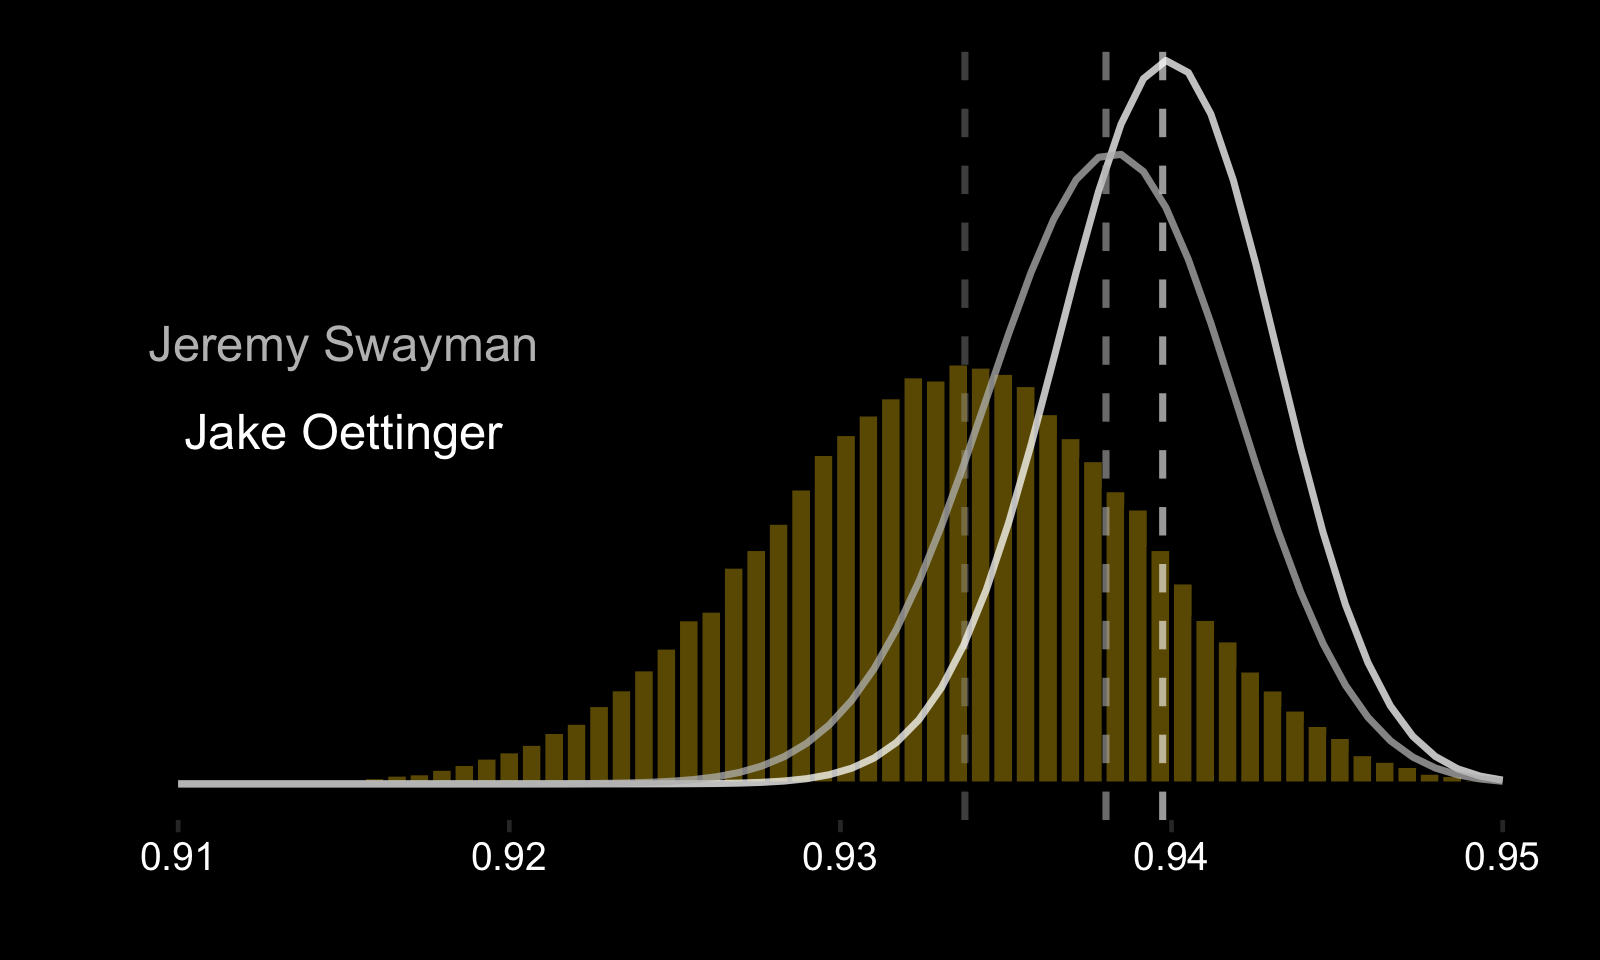
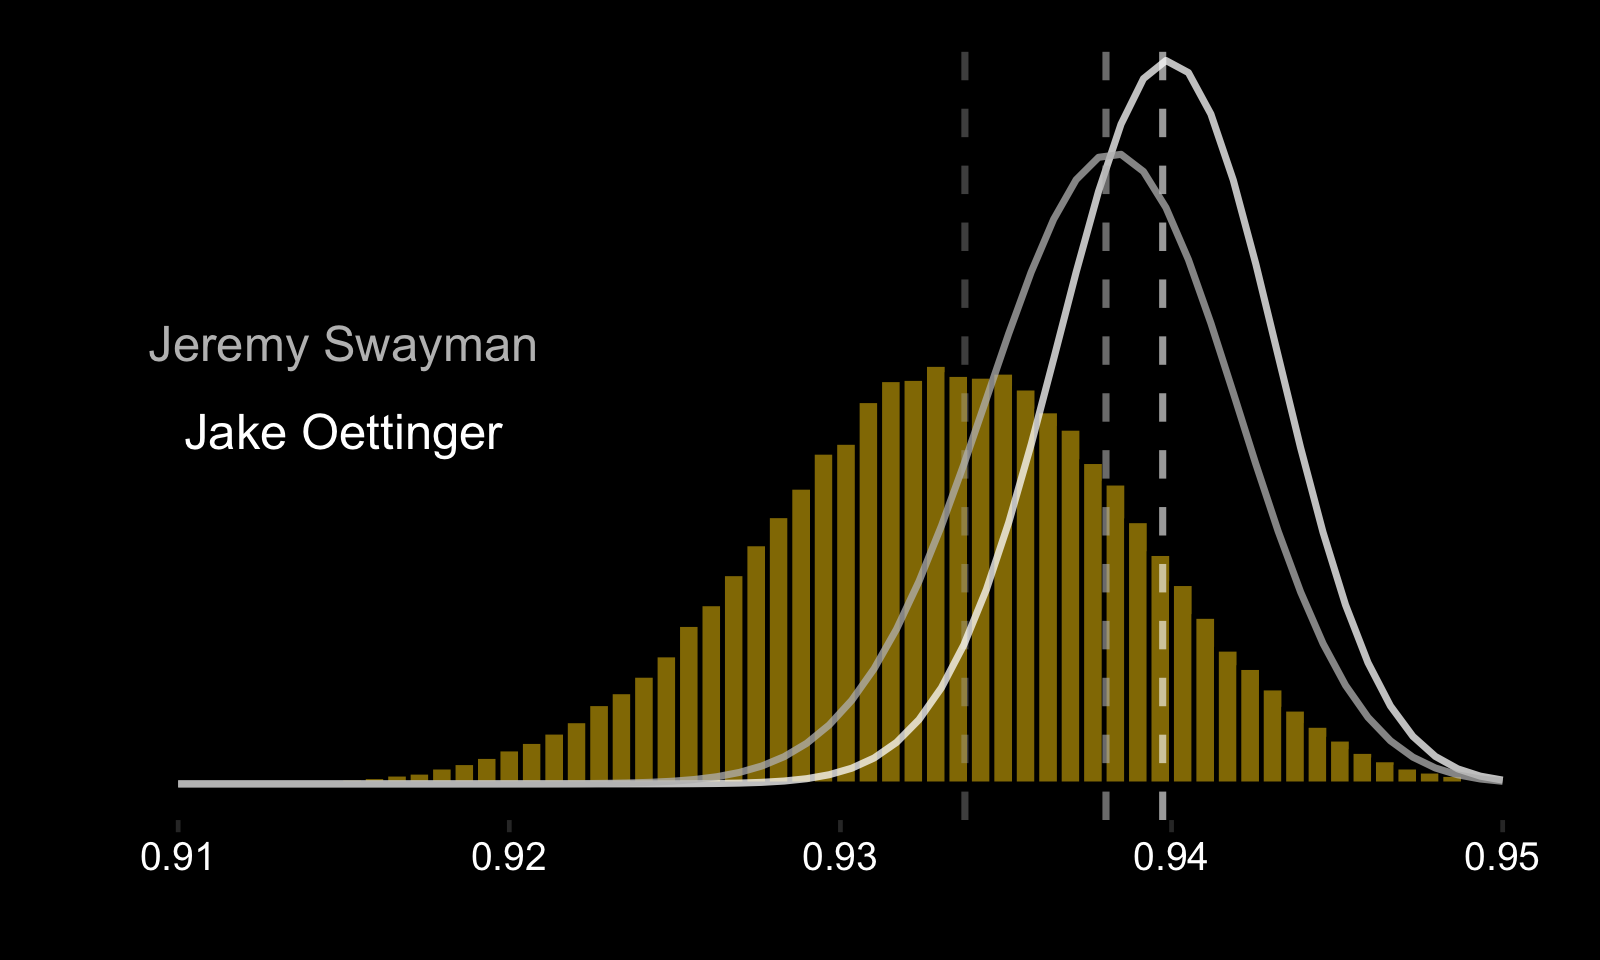
add alpha to plot

Changed region(s): [[0.25, 0.375, 0.9062, 0.8125]]

diff --git a/_posts/2023-05-17-goalie-consistency-4.md b/_posts/2023-05-17-goalie-consistency-4.md
@@ -1,6 +1,6 @@
 ---
 layout: post
-title:  "Bayesian Save Percentage"
+title:  "Empirical Bayes Save Percentage"
 date:   2023-05-17 8:52:05 -0400
 ---
 <h2>[Post 4] Empirical Bayes Save Percentage</h2>
